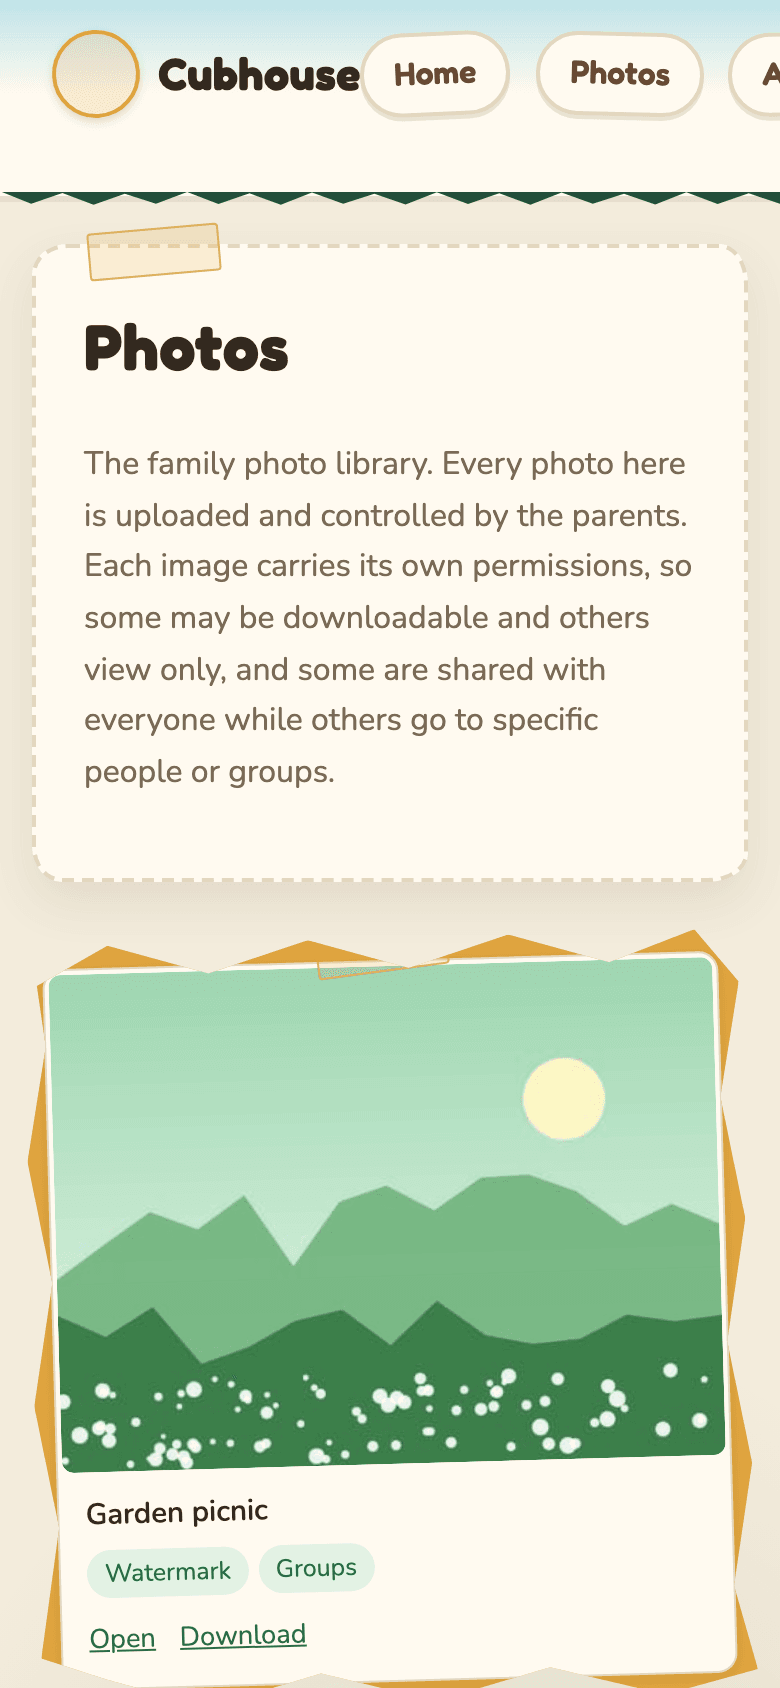
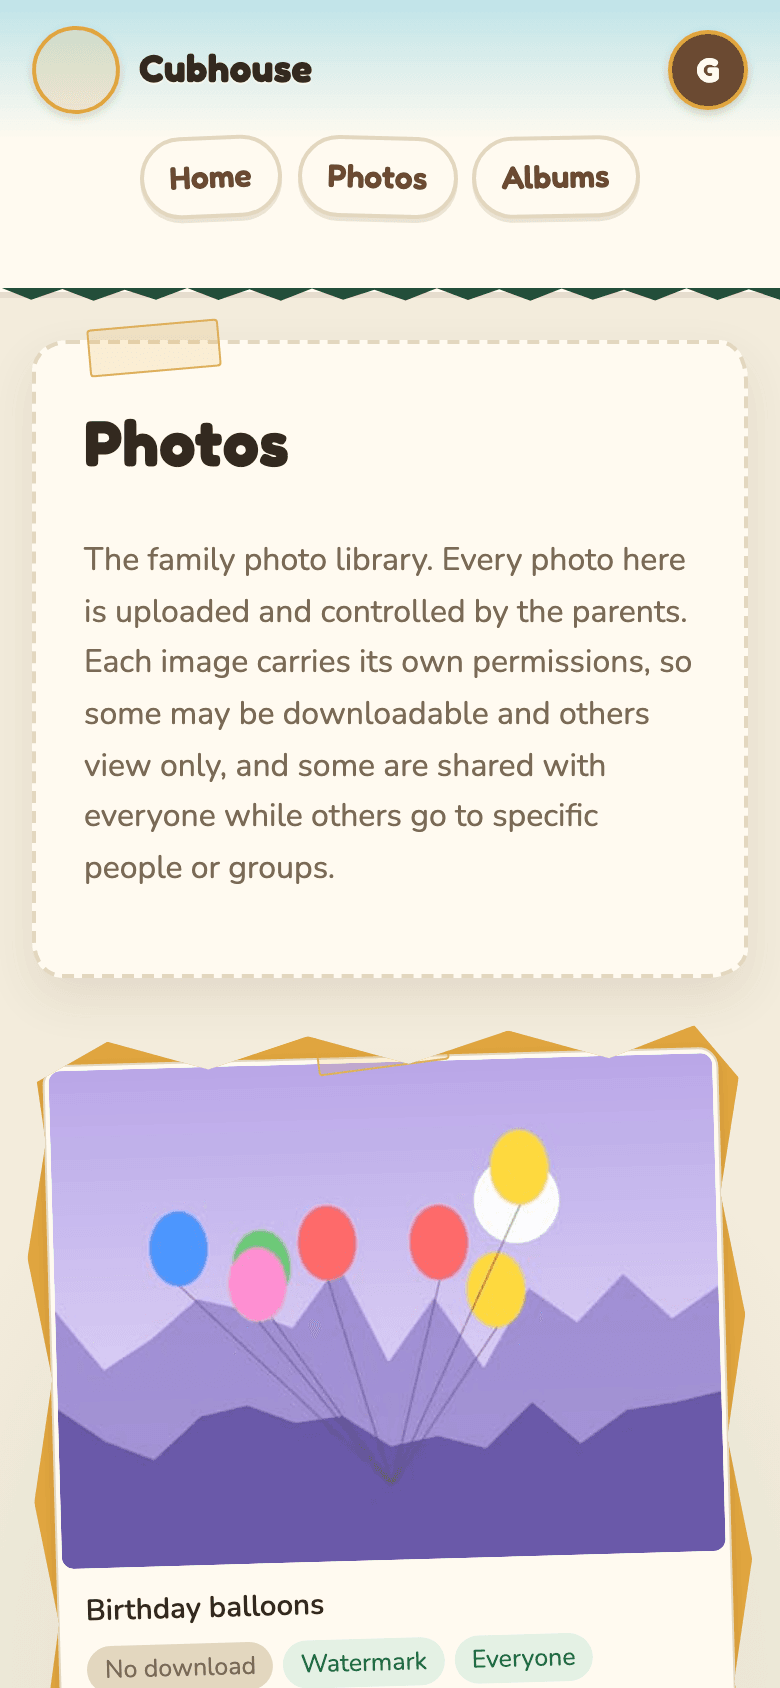
fix(header): keep the account menu reachable on phones
At 390px the header was 492px wide and the account button sat off screen behind the nav, so Settings, Security and Sign out could not be reached. Below 600px the header now wraps: brand and account button on the first row, nav on its own row. The menu is a disclosure button (aria-expanded, aria-controls, labelled with the member's name) instead of role=menu; keyboard opening focuses the first link, Escape and tabbing away close it. Guide phone screenshots and the troubleshooting entry are updated.

Assisted-by: Kiro

diff --git a/test/headerMenu.test.js b/test/headerMenu.test.js
@@ -1,0 +1,31 @@
+'use strict';
+
+const test = require('node:test');
+const assert = require('node:assert/strict');
+const { startApp, seedFamily } = require('./helpers');
+
+test('the account menu is a labelled disclosure button that controls its panel', async (t) => {
+  const env = await startApp();
+  t.after(env.close);
+  await seedFamily(env);
+  const c = env.client();
+  await c.login('member@test.com');
+  const { body } = await c.get('/home');
+
+  const button = /<button[^>]*data-profile-trigger[^>]*>/.exec(body);
+  assert.ok(button, 'menu button rendered');
+  assert.match(button[0], /type="button"/);
+  assert.match(button[0], /aria-expanded="false"/);
+  assert.match(button[0], /aria-controls="profile-dropdown"/);
+  assert.match(button[0], /aria-label="Account menu for Grandma"/);
+
+  const panel = /<div[^>]*id="profile-dropdown"[^>]*>/.exec(body);
+  assert.ok(panel, 'the panel the button controls exists');
+  assert.match(panel[0], /\shidden(\s|>)/);
+  // Plain links and a form, not an ARIA menu that would promise arrow keys.
+  assert.doesNotMatch(body, /role="menu(item)?"/);
+  for (const href of ['/settings', '/settings/security']) {
+    assert.ok(body.includes(`class="profile-dropdown-item" href="${href}"`), href);
+  }
+  assert.match(body, /<button type="submit" class="profile-dropdown-item profile-dropdown-signout">Sign out<\/button>/);
+});

diff --git a/public/profile-menu.js b/public/profile-menu.js
@@ -1,6 +1,11 @@
 (function () {
   'use strict';
 
+  // Account menu: a disclosure button (aria-expanded) that shows a panel of
+  // links. Click, tap, Enter or Space toggles it. Opening from the keyboard
+  // moves focus to the first link; Escape closes it and returns focus to the
+  // button; tabbing or clicking outside closes it.
+
   var menu = document.querySelector('[data-profile-menu]');
   if (!menu) {
     return;
@@ -12,9 +17,15 @@
     return;
   }
 
-  function open() {
+  function open(focusFirst) {
     dropdown.hidden = false;
     trigger.setAttribute('aria-expanded', 'true');
+    if (focusFirst) {
+      var first = dropdown.querySelector('a, button');
+      if (first) {
+        first.focus();
+      }
+    }
   }
 
   function close() {
@@ -31,12 +42,20 @@
     if (isOpen()) {
       close();
     } else {
-      open();
+      // detail is 0 when the click came from Enter or Space, not a pointer.
+      open(event.detail === 0);
     }
   });
 
   document.addEventListener('click', function (event) {
     if (isOpen() && !menu.contains(event.target)) {
+      close();
+    }
+  });
+
+  // Focus leaving the menu (Tab past the last link, or Shift+Tab out) closes it.
+  menu.addEventListener('focusout', function (event) {
+    if (isOpen() && event.relatedTarget && !menu.contains(event.relatedTarget)) {
       close();
     }
   });

diff --git a/public/styles.css b/public/styles.css
@@ -248,6 +248,39 @@ a {
   flex: 1;
 }
 
+/* Phones: the brand, nav and account button do not fit on one row (the page
+   became wider than the screen and the account button sat off its right edge).
+   Put the brand and account button on the first row and the nav on its own
+   row below, so everything stays on screen in tab order. */
+@media (max-width: 600px) {
+  .site-header {
+    flex-wrap: wrap;
+    row-gap: 0.7rem;
+    padding: 0.8rem 1rem 2.3rem;
+  }
+
+  .brand {
+    font-size: 1.2rem;
+  }
+
+  /* `order` below also moves the nav later in painting order, so lift the
+     account menu above it or its panel opens underneath the nav pills. */
+  .site-actions {
+    flex: 0 0 auto;
+    z-index: 2;
+  }
+
+  .site-nav {
+    order: 1;
+    flex: 1 0 100%;
+    gap: 0.5rem;
+  }
+
+  .site-nav a {
+    padding: 0.35rem 0.8rem;
+  }
+}
+
 .profile-menu {
   position: relative;
 }

diff --git a/docs/guide/troubleshooting.md b/docs/guide/troubleshooting.md
@@ -84,10 +84,13 @@ Type it exactly as given, with the email the guardian expected. Otherwise ask fo
 
 ## On my phone I cannot reach the menu
 
-On narrow phones, the row of buttons at the top can push the round menu button (with your initial)
-off the right edge of the screen, and the **Albums** button sits on top of it.
+On a phone, the round menu button with your initial sits at the top right, next to the site name.
+**Home**, **Photos** and **Albums** are on a row of their own just below.
 
-You can still get everywhere:
+![Cubhouse on a phone with the menu open under the round button at the top right, showing Settings, Security and Sign out](img/mobile-profile-menu.png)
+
+If the menu button is off the edge of the screen, or the **Albums** button covers it, the site is
+running an older version. Ask whoever runs the server to update Cubhouse. Until then:
 
 - Turn your phone sideways. The menu button fits.
 - Or type the address directly: `/settings` for Settings, `/settings/security` for Security, and

diff --git a/docs/guide/family-members.md b/docs/guide/family-members.md
@@ -228,5 +228,10 @@ choice to make; ask them if you are curious.
 
 ## Phones
 
-Everything works on a phone. On some narrow phones the round menu button at the top right is
-pushed off the screen. See [Troubleshooting](troubleshooting.md#on-my-phone-i-cannot-reach-the-menu).
+Everything works on a phone. The round menu button stays at the top right, and **Home**,
+**Photos** and **Albums** move to their own row below the site name. Tap the round button for
+**Settings**, **Security** and **Sign out**.
+
+![Cubhouse on a phone with the menu open, showing Grandma Jo's name and the Settings, Security and Sign out links](img/mobile-profile-menu.png)
+
+If you cannot reach the menu, see [Troubleshooting](troubleshooting.md#on-my-phone-i-cannot-reach-the-menu).

diff --git a/CHANGELOG.md b/CHANGELOG.md
@@ -55,6 +55,11 @@ All notable changes to this project are documented here. The format follows
 
 ### Fixed
 
+- On phones the header now wraps, so the account menu button is no longer off screen under the
+  nav and Settings, Security and Sign out can be reached. The menu is a plain disclosure button
+  (`aria-expanded`, `aria-controls`): opening it from the keyboard moves focus to the first link,
+  and Escape or tabbing away closes it.
+
 - The daily download digest is sent once per UTC day. Before, every boot sent one a minute after
   starting, and two instances running side by side during a deploy swap each sent their own.
 
